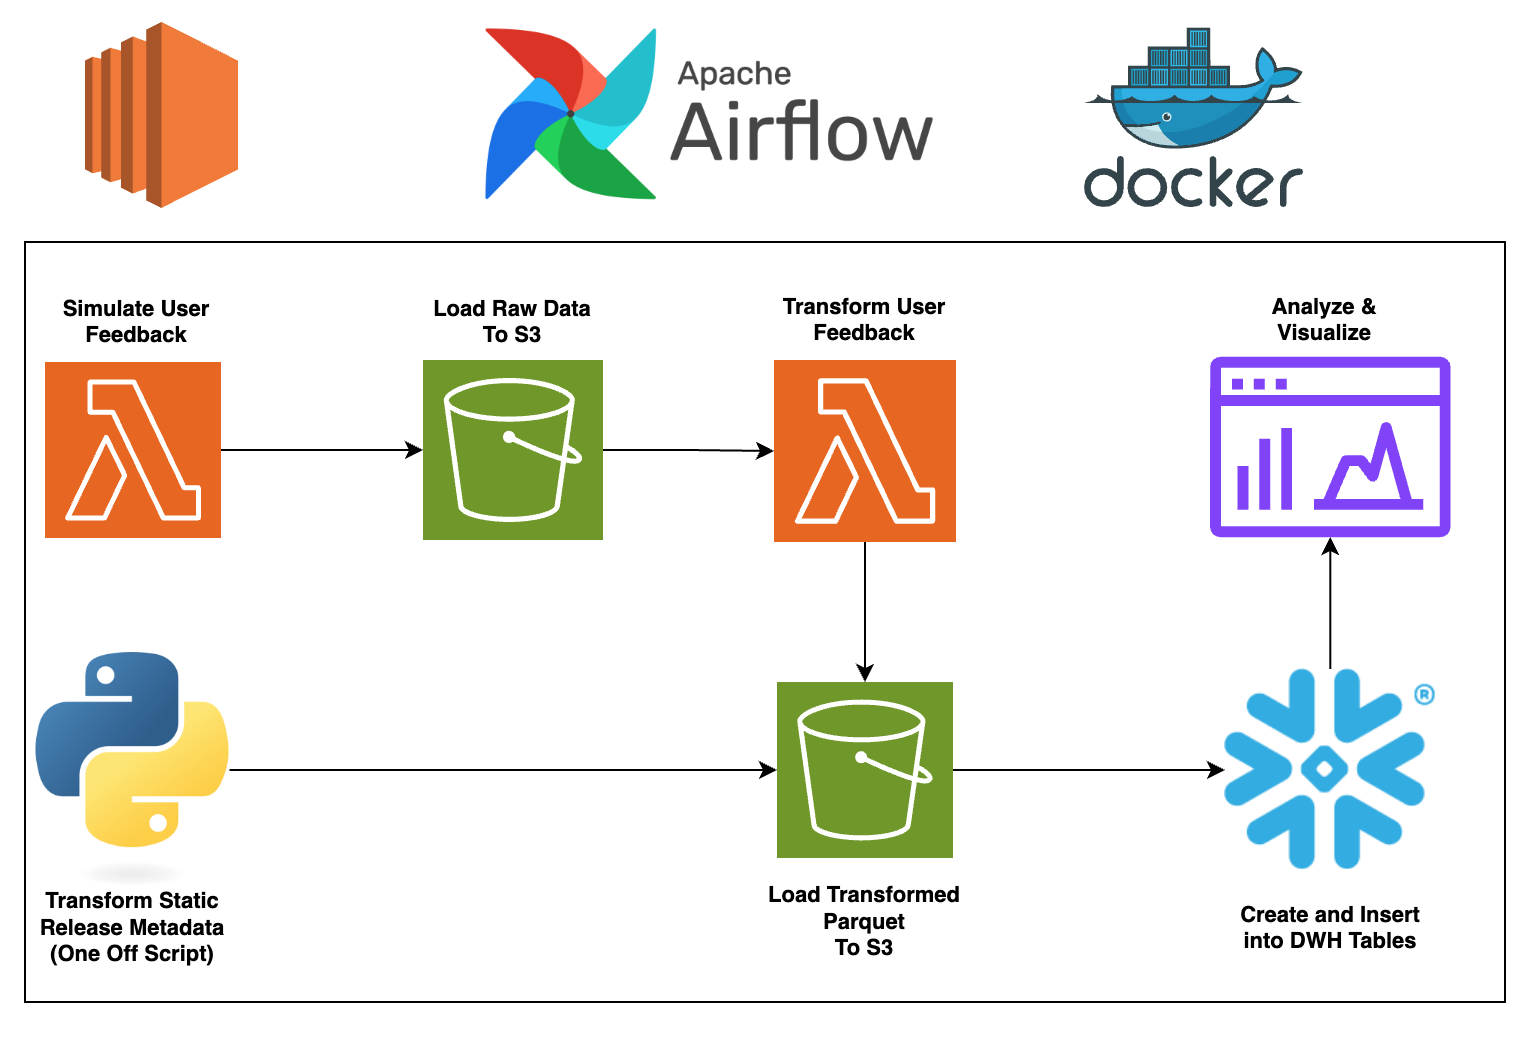
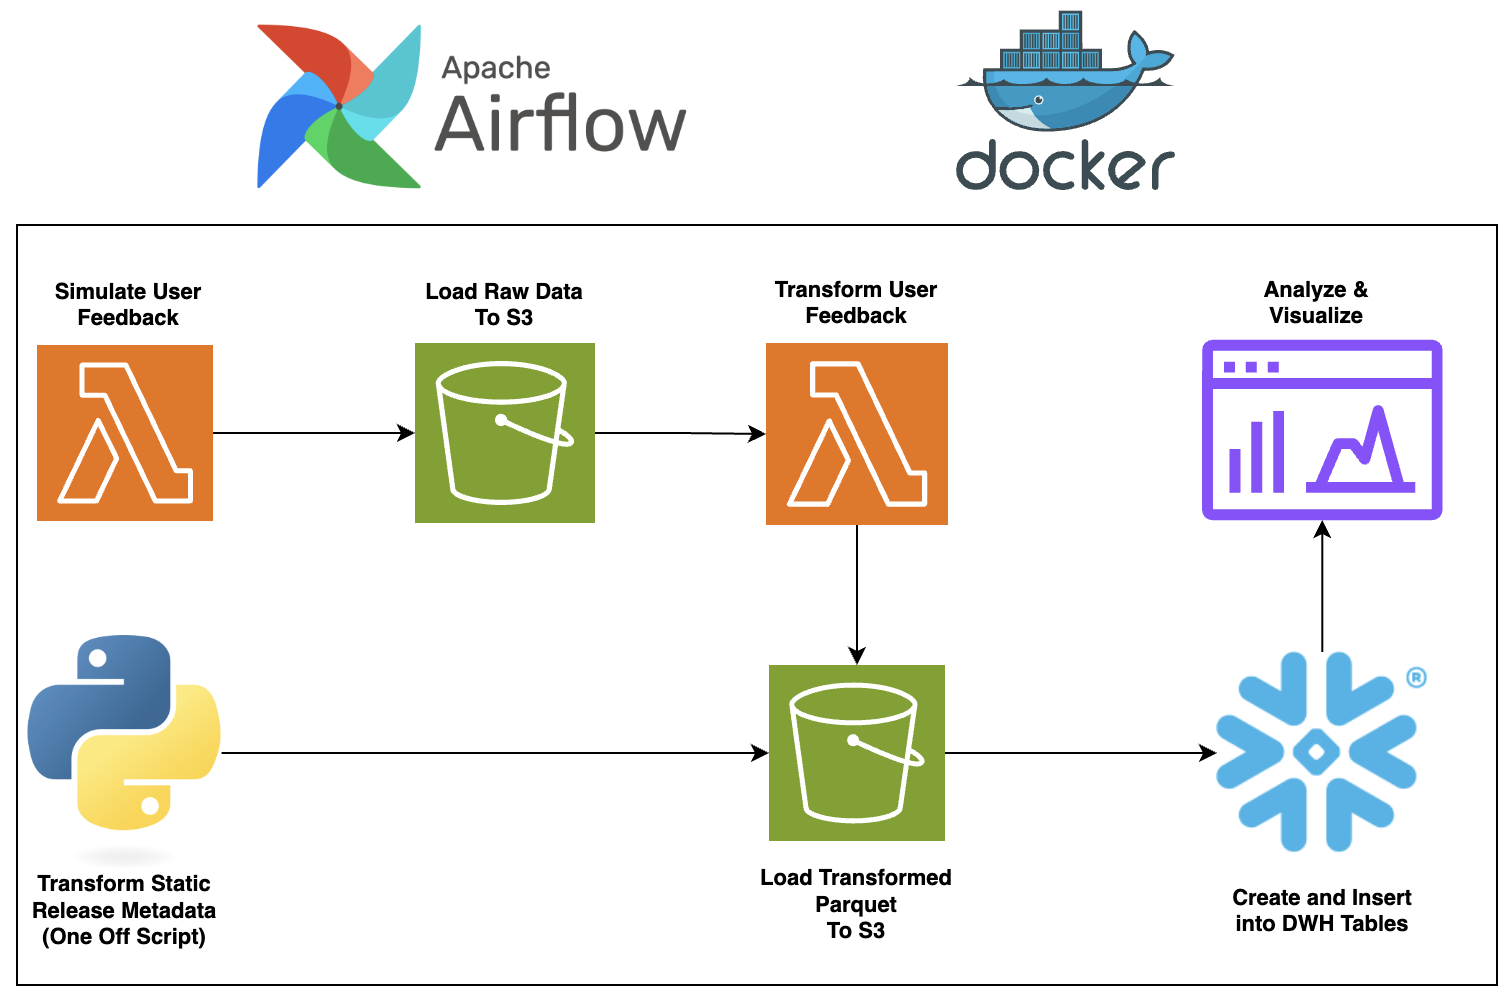
image updated

Changed region(s): [[0.0, 0.0, 0.9947, 0.9572], [0.4663, 0.2779, 0.6528, 0.9572], [0.4041, 0.4014, 0.4974, 0.4323]]

diff --git a/README.md b/README.md
@@ -1,6 +1,6 @@
 # Discogs Rec Pipeline
 
-The Discogs Rec Pipeline simulates synthetic user feedback data based on recommendations from the [discogs-rec app](https://github.com/justinpakzad/discogs-rec). Utilizing AWS Lambda, S3, EC2, Snowflake, and Airflow, the pipeline handles data generation, processing, and modeling to create a workflow for managing and analyzing user interaction data.
+The Discogs Rec Pipeline simulates synthetic user feedback data based on recommendations from the [discogs-rec app](https://github.com/justinpakzad/discogs-rec). Utilizing AWS Lambda, S3, Snowflake, and Airflow, the pipeline handles data generation, processing, and modeling to create a workflow for managing and analyzing user interaction data.
 
 
 ## Data Flow Diagram
